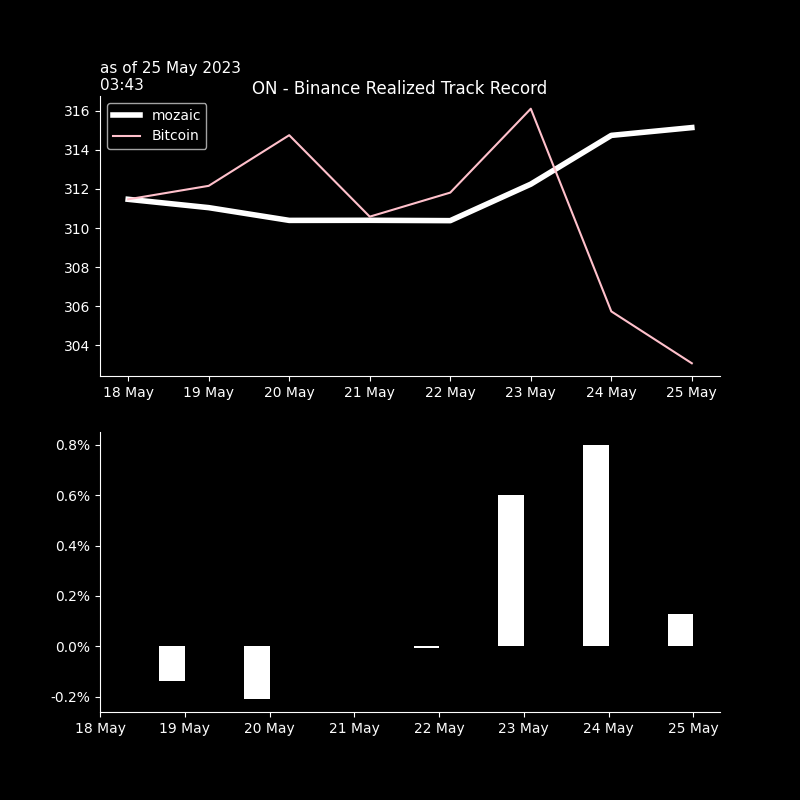
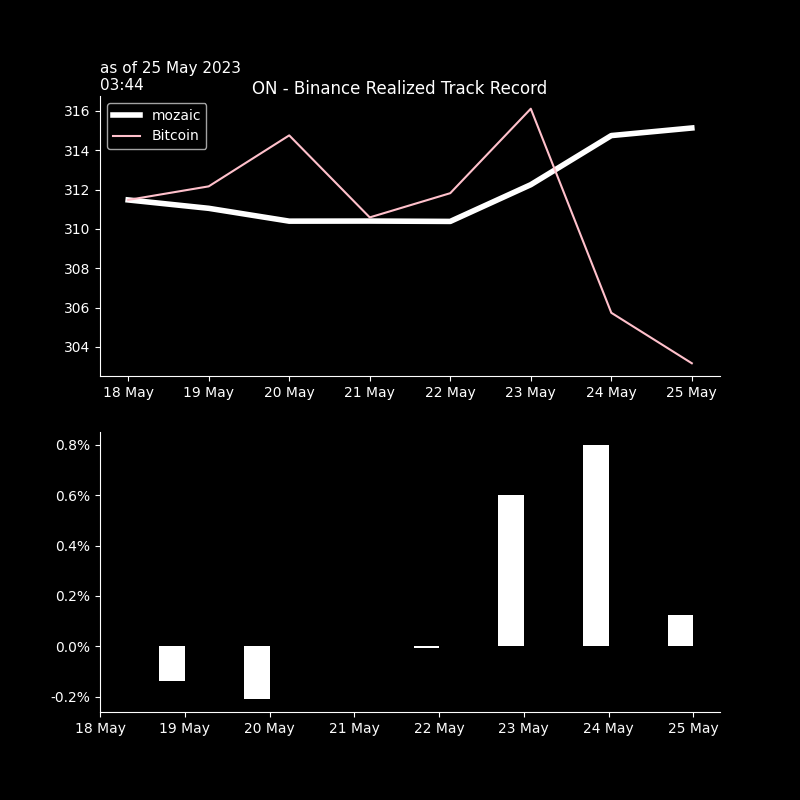
seb_commit

diff --git a/crypto/graphs/bt_trades_book.htmltrade_trades_book.html b/crypto/graphs/bt_trades_book.htmltrade_trades_book.html
@@ -45,30 +45,30 @@
       <td>$0.02</td>
       <td>2.0</td>
       <td>0.0</td>
-      <td>0.45155</td>
-      <td>2023-05-25 03:41</td>
-      <td>-0.1</td>
-      <td>-8.0</td>
-      <td>.4514</td>
+      <td>0.45105</td>
+      <td>2023-05-25 03:42</td>
+      <td>0.0</td>
+      <td>4.0</td>
+      <td>.4513</td>
       <td>-0.0</td>
-      <td>-4.0</td>
+      <td>-3.0</td>
     </tr>
     <tr>
       <th>BTCUSDT</th>
-      <td>26077.6000</td>
-      <td>2023-05-25 02:43:37.000</td>
-      <td>-0.001</td>
-      <td>$-26.1</td>
+      <td>26080.3500</td>
+      <td>2023-05-25 02:44:07.000</td>
+      <td>-0.002</td>
+      <td>$-52.2</td>
       <td>$0.01</td>
       <td>2.0</td>
       <td>0.0</td>
-      <td>26082.65000</td>
-      <td>2023-05-25 03:41</td>
+      <td>26075.95000</td>
+      <td>2023-05-25 03:42</td>
+      <td>0.0</td>
+      <td>2.0</td>
+      <td>26085.4</td>
       <td>-0.0</td>
-      <td>-4.0</td>
-      <td>26079.3</td>
-      <td>-0.0</td>
-      <td>-0.0</td>
+      <td>-2.0</td>
     </tr>
   </tbody>
 </table>

diff --git a/crypto/graphs/bt_trades_recap.htmltrade_trades_recap.html b/crypto/graphs/bt_trades_recap.htmltrade_trades_recap.html
@@ -9,18 +9,18 @@
   <tbody>
     <tr>
       <th>as of</th>
-      <td>25May 02:43&gt;&gt;02:43</td>
+      <td>25May 02:43&gt;&gt;02:44</td>
       <td>#trades: 2</td>
     </tr>
     <tr>
       <th>trade net</th>
-      <td>-104.0</td>
-      <td>-33.0%</td>
+      <td>-130.0</td>
+      <td>-41.2%</td>
     </tr>
     <tr>
       <th>trade gross</th>
-      <td>+104.0</td>
-      <td>+33.0%</td>
+      <td>+130.0</td>
+      <td>+41.2%</td>
     </tr>
     <tr>
       <th>BUY</th>
@@ -29,12 +29,12 @@
     </tr>
     <tr>
       <th>SELL</th>
-      <td>-104.0</td>
-      <td>-33.0%</td>
+      <td>-130.0</td>
+      <td>-41.2%</td>
     </tr>
     <tr>
       <th>fees</th>
-      <td>$ 0.021</td>
+      <td>$ 0.026</td>
       <td>2.0bp</td>
     </tr>
   </tbody>

diff --git a/crypto/graphs/bt_trades_pnlD_recap.htmltrade_trades_pnlD_recap.html b/crypto/graphs/bt_trades_pnlD_recap.htmltrade_trades_pnlD_recap.html
@@ -1,7 +1,7 @@
 <table border="1" class="dataframe">
   <thead>
     <tr style="text-align: right;">
-      <th>25 May 03:43</th>
+      <th>25 May 03:44</th>
       <th>realizedPnl</th>
       <th>PnLvsArrival</th>
       <th>PnLvsLast</th>
@@ -11,19 +11,19 @@
     <tr>
       <th>in$</th>
       <td>0.0</td>
-      <td>-0.1</td>
+      <td>0.0</td>
       <td>-0.0</td>
     </tr>
     <tr>
-      <th>in bp 103 traded</th>
+      <th>in bp 129 traded</th>
+      <td>2 bp</td>
       <td>3 bp</td>
-      <td>-7 bp</td>
-      <td>-3 bp</td>
+      <td>-2 bp</td>
     </tr>
     <tr>
       <th>in bp 315 AUMs</th>
       <td>1 bp</td>
-      <td>-2 bp</td>
+      <td>1 bp</td>
       <td>-1 bp</td>
     </tr>
   </tbody>
